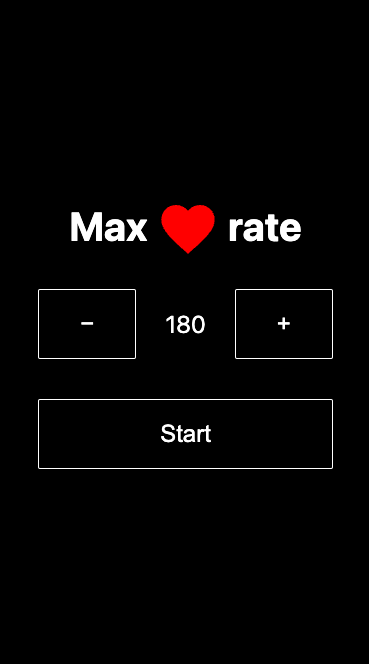
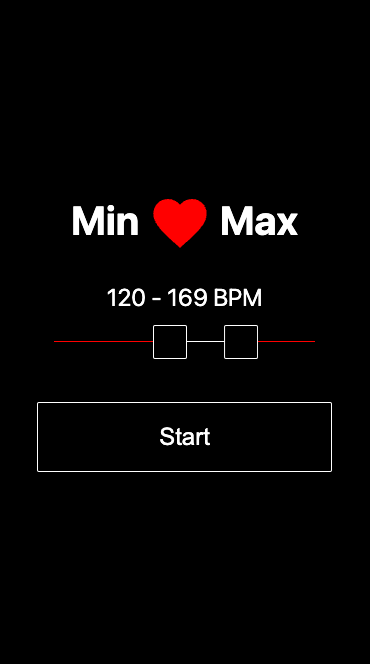
feat: add low rate alert

diff --git a/src/App.svelte b/src/App.svelte
@@ -1,15 +1,23 @@
 <script>
   import { HeartRateSensor } from './lib/heartRateSensor';
   import { Howl, Howler } from 'howler';
-  import Heart from './svg/Heart.svelte';
+  import StepHome from './steps/Home.svelte';
+  import StepSetup from './steps/Setup.svelte';
+  import StepRun from './steps/Run.svelte';
+
   Howler.autoUnlock = false;
 
   let isConnecting = false;
-  let tab = 'home';
-  let maxHeartRate = 100;
+  let step = 'home';
+  let heartRange = [40, 220];
+  const cache = localStorage.getItem('heartRange');
+  if (cache) {
+    heartRange = cache.split(',');
+  }
   let heartRate = 0;
   let hearRateBeat = false;
-  let highHearRateBeat = false;
+  let isTooLow = false;
+  let isTooHigh = false;
 
   const heartRateSensor = new HeartRateSensor();
 
@@ -18,7 +26,7 @@
       isConnecting = true;
       await heartRateSensor.connect();
       await heartRateSensor.enableMultiConnection();
-      tab = 'setup';
+      step = 'setup';
     } catch (err) {
       alert(err);
     }
@@ -27,14 +35,19 @@
 
   async function start() {
     heartRate = 0;
-    highHearRateBeat = 0;
-    tab = 'run';
+    isTooLow = false;
+    isTooHigh = false;
+    step = 'run';
+
     try {
       await heartRateSensor.characteristicHeartRate.startNotifications();
       heartRateSensor.characteristicHeartRate.addEventListener('characteristicvaluechanged', beat);
+      setInterval(() => {
+        beat();
+      }, 1000);
     } catch (err) {
       alert(err);
-      tab = 'home';
+      step = 'home';
     }
   }
 
@@ -45,7 +58,7 @@
     } catch (err) {
       alert(err);
     }
-    tab = 'setup';
+    step = 'setup';
   }
 
   function beat(event) {
@@ -54,14 +67,23 @@
 
     var heartRateMeasurement = heartRateSensor.parseHeartRate(event.target.value);
     heartRate = heartRateMeasurement.heartRate;
-    if (heartRate > maxHeartRate) {
-      const beep = new Howl({
-        src: ['sound/beep.mp3']
+    const [min, max] = heartRange;
+
+    if (heartRate > max) {
+      const highBeep = new Howl({
+        src: ['sound/high_beep.mp3']
       });
-      beep.play();
-      highHearRateBeat = true;
+      highBeep.play();
+      isTooHigh = true;
+    } else if (heartRate < min) {
+      const lowBeep = new Howl({
+        src: ['sound/low_beep.mp3']
+      });
+      lowBeep.play();
+      isTooLow = true;
     } else {
-      highHearRateBeat = false;
+      isTooHigh = false;
+      isTooLow = false;
     }
 
     setTimeout(() => {
@@ -71,38 +93,11 @@
 </script>
 
 <div class="container">
-
-  {#if tab === 'home'}
-  <div class="content">
-    <div class="header">
-      <h1>Polar H10 alert</h1>
-    </div>
-    {#if isConnecting}
-      <button class="button">Loading...</button>
-    {:else}
-      <button class="button" on:click={connect}>Connect</button>
-    {/if}
-  </div>
-  {:else if tab === 'setup'}
-  <div class="content">
-    <div class="header">
-      <h1>Max <Heart size=64 /> rate</h1>
-    </div>
-
-    <div class="button-group">
-      <button class="button" on:click={() => maxHeartRate > 0 && (maxHeartRate -= 5)}>−</button>
-      <div class="label">{maxHeartRate}</div>
-      <button class="button" on:click={() => maxHeartRate < 300 && (maxHeartRate += 5)}>+</button>
-    </div>
-
-    <button class="button" on:click={start}>Start</button>
-  </div>
-  {:else if tab === 'run'}
-  <div class="content">
-    <div class="header">
-      <div class="heartrate" class:heartrate-high="{highHearRateBeat}" class:heartrate-beat="{hearRateBeat}">{heartRate} BPM</div>
-    </div>
-    <button class="button" on:click={stop}>Stop</button>
-  </div>
+  {#if step === 'home'}
+  <StepHome connect={connect} />
+  {:else if step === 'setup'}
+  <StepSetup heartRange={heartRange} start={start} />
+  {:else if step === 'run'}
+  <StepRun isTooHigh={isTooHigh} isTooLow={isTooLow} hearRateBeat={hearRateBeat} heartRate={heartRate} stop={stop} />
   {/if}
 </div>

diff --git a/src/steps/Setup.svelte b/src/steps/Setup.svelte
@@ -1,0 +1,43 @@
+<script>
+  import { onMount } from 'svelte';
+  import Heart from '../svg/Heart.svelte';
+  import noUiSlider from 'nouislider';
+  import 'nouislider/dist/nouislider.css';
+
+  export let heartRange;
+  export let start;
+
+  onMount(() => {
+    const slider = document.getElementById('slider');
+    noUiSlider.create(slider, {
+        start: heartRange,
+        connect: [true, false, true],
+        step: 1,
+        margin: 10,
+        range: {
+          'min': 40,
+          'max': 220
+        }
+    });
+
+    slider.noUiSlider.on('update', (values) => {
+      heartRange[0] = parseInt(values[0]);
+      heartRange[1] = parseInt(values[1]);
+      localStorage.setItem('heartRange', heartRange.join(','));
+    });
+  });
+
+</script>
+
+<div class="content">
+  <div class="header">
+    <h1>Min <Heart size=64 /> Max</h1>
+  </div>
+
+  <div class="slider-group">
+    <div class="label">{heartRange[0]} - {heartRange[1]} BPM</div>
+    <div id="slider"></div>
+  </div>
+
+  <button class="button" on:click={start}>Start</button>
+</div>

diff --git a/src/main.scss b/src/main.scss
@@ -52,17 +52,39 @@ h1 {
   }
 }
 
-.button-group {
-  display: flex;
-  align-items: center;
-  justify-content: center;
-  margin-bottom: 40px;
-  .button {
-    flex-basis: 33.33%;
-  }
+.slider-group {
+  margin-bottom: 60px;
   .label {
-    flex-basis: 33.33%;
     font-size: 24px;
+    margin-bottom: 30px;
+  }
+  .noUi-horizontal {
+    height: 1px;
+    border: none;
+  }
+  .noUi-target {
+    background-color: #fff;
+    box-shadow: none;
+    margin: 0 17px;
+  }
+  .noUi-connect {
+    background: red;
+  }
+  .noUi-horizontal {
+    .noUi-handle {
+      border-radius: 2px;
+      height: 34px;
+      width: 34px;
+      top: -16px;
+      background: black;
+      box-shadow: none;
+      border: none;
+      border: 1px solid white;
+      cursor: pointer;
+      &::before, &::after {
+        content: none;
+      }
+    }
   }
 }
 
@@ -77,6 +99,6 @@ h1 {
 .heartrate-beat {
   animation: heartbeat .3s infinite;
 }
-.heartrate-high {
+.heartrate-alert {
   color: red;
 }

diff --git a/src/steps/Run.svelte b/src/steps/Run.svelte
@@ -1,0 +1,21 @@
+<script>
+  export let isTooLow;
+  export let isTooHigh;
+  export let hearRateBeat;
+  export let heartRate;
+  export let stop;
+</script>
+
+<div class="content">
+  <div class="header">
+    <div class="heartrate" class:heartrate-alert="{isTooLow || isTooHigh}" class:heartrate-beat="{hearRateBeat}">{heartRate} BPM</div>
+    {#if isTooLow}
+    <div>Too low!</div>
+    {:else if isTooHigh}
+    <div>Too high!</div>
+    {:else}
+    <div>Good</div>
+    {/if}
+  </div>
+  <button class="button" on:click={stop}>Stop</button>
+</div>

diff --git a/src/steps/Home.svelte b/src/steps/Home.svelte
@@ -1,0 +1,15 @@
+<script>
+  export let connect;
+  let isConnecting = false;
+</script>
+
+<div class="content">
+  <div class="header">
+    <h1>Polar H10 alert</h1>
+  </div>
+  {#if isConnecting}
+    <button class="button">Loading...</button>
+  {:else}
+    <button class="button" on:click={connect}>Connect</button>
+  {/if}
+</div>
